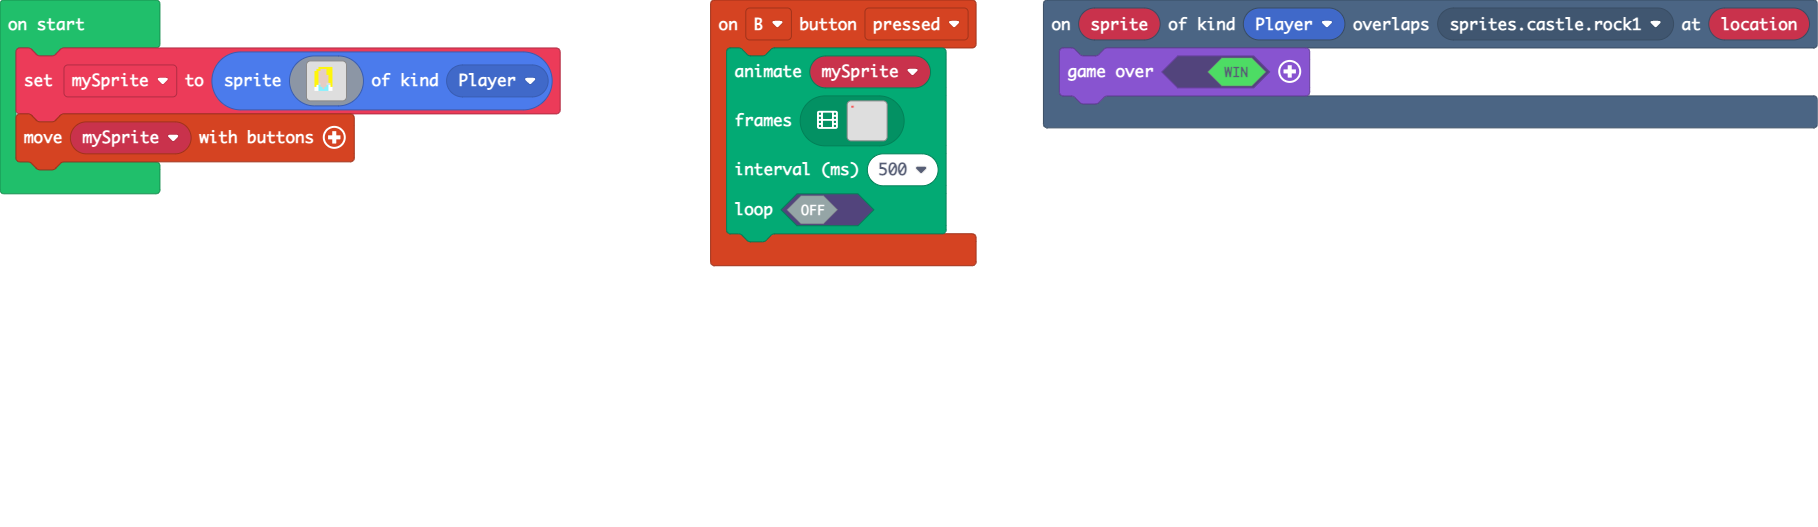
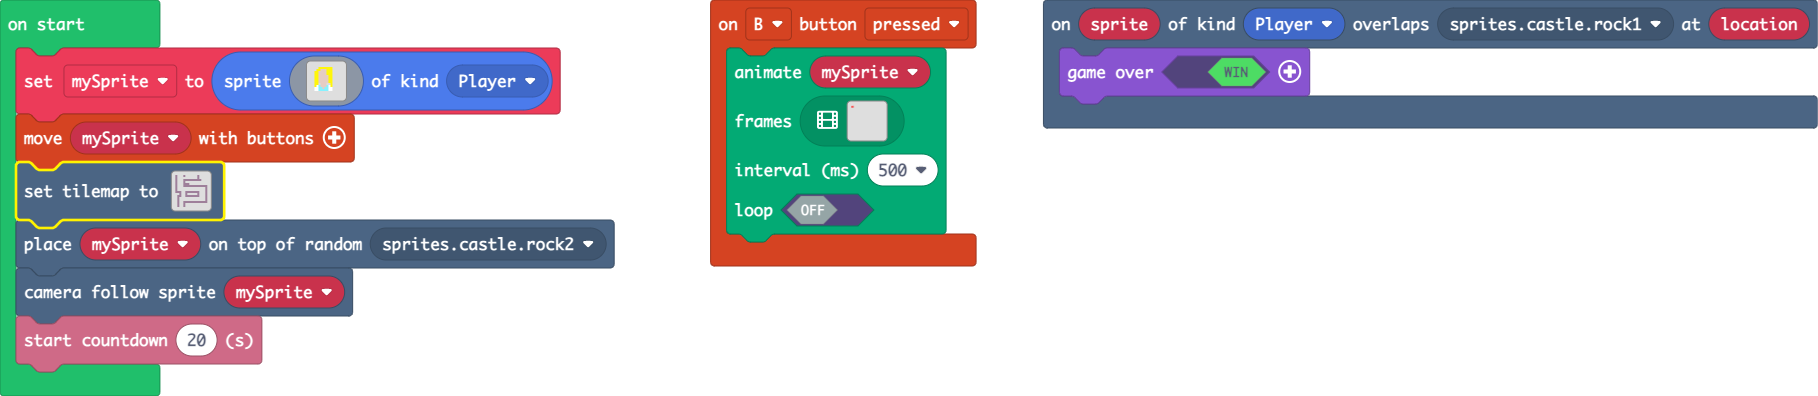
Update main.blocks, main.ts, tilemap.g.jres, tilemap.g.ts

diff --git a/tilemap.g.ts b/tilemap.g.ts
@@ -4,6 +4,8 @@ namespace myTiles {
     export const transparency16 = image.ofBuffer(hex``);
     //% fixedInstance jres blockIdentity=images._tile
     export const tile1 = image.ofBuffer(hex``);
+    //% fixedInstance jres blockIdentity=images._tile
+    export const tile2 = image.ofBuffer(hex``);
 
     helpers._registerFactory("tilemap", function(name: string) {
         switch(helpers.stringTrim(name)) {
@@ -45,6 +47,25 @@ namespace myTiles {
 . . . . . . . . . . . . . . . . 
 . . . . . . . . . . . . . . . . 
 `, [], -Infinity);
+            case "level3":
+            case "level3":return tiles.createTilemap(hex`1000100000000000000000000000000000000000000000000000000000000000000000000000000000000000000000000000000000000000000000000000000000000000000000000000000000000000000000000000000000000000000000000000000000000000000000000000000000000000000000000000000000000000000000000000000000000000000000000000000000000000000000000000000000000000000000000000000000000000000000000000000000000000000000000000000000000000000000000000000000000000000000000000000000000000000000000000000000000000000000000000000000000000000000000000000000000000`, img`
+. . . . . . . . . . . . . . . . 
+. . . . . . . . . . . . . . . . 
+. . . . . . . . . . . . . . . . 
+. . . . . . . . . . . . . . . . 
+. . . . . . . . . . . . . . . . 
+. . . . . . . . . . . . . . . . 
+. . . . . . . . . . . . . . . . 
+. . . . . . . . . . . . . . . . 
+. . . . . . . . . . . . . . . . 
+. . . . . . . . . . . . . . . . 
+. . . . . . . . . . . . . . . . 
+. . . . . . . . . . . . . . . . 
+. . . . . . . . . . . . . . . . 
+. . . . . . . . . . . . . . . . 
+. . . . . . . . . . . . . . . . 
+. . . . . . . . . . . . . . . . 
+`, [myTiles.transparency16], TileScale.Sixteen);
         }
         return null;
     })
@@ -53,6 +74,7 @@ namespace myTiles {
         switch(helpers.stringTrim(name)) {
             case "transparency16":return transparency16;
             case "tile1":return tile1;
+            case "tile2":return tile2;
         }
         return null;
     })

diff --git a/main.ts b/main.ts
@@ -1235,7 +1235,7 @@ mySprite = sprites.create(img`
     . . . . . . . . . . . . . . . . 
     `, SpriteKind.Player)
 controller.moveSprite(mySprite)
-tiles.setTilemap(tilemap`level2`)
+tiles.setTilemap(tilemap`level3`)
 tiles.placeOnRandomTile(mySprite, sprites.castle.rock2)
 scene.cameraFollowSprite(mySprite)
 info.startCountdown(20)
